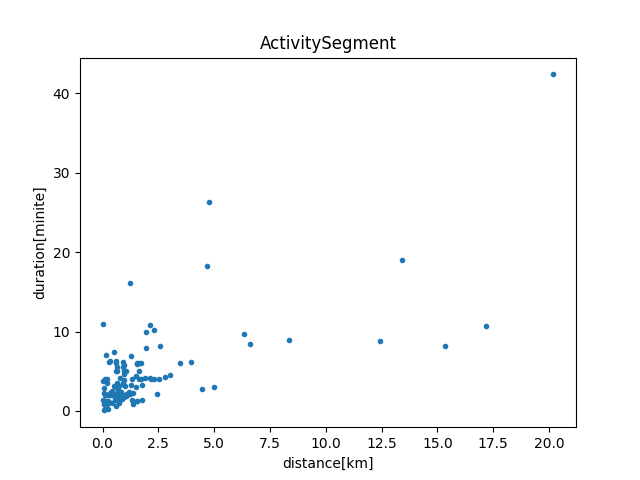
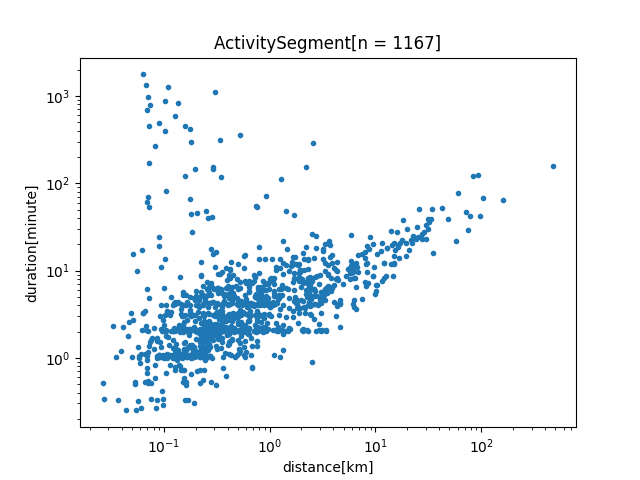
add gravitypoint

diff --git a/figGLH/dataTrend.py b/figGLH/dataTrend.py
@@ -1,6 +1,6 @@
 import matplotlib.pyplot as plt
 from geo2 import distance as g2dist
-from caliper import rotating_calipers as calipers
+from caliper import rotating_calipers, gravityPointDistance
 from mongodbSet import MongoDBSet
 
 
@@ -44,6 +44,10 @@ class GLHCollection():
 
         return result
     
+    def print(self):
+        for doc in self.collection:
+            print(doc)
+    
 class GLHCollectionAs(GLHCollection):
     def __init__(self, collection, segment = "activitySegment"):
         super().__init__(collection, segment)
@@ -63,7 +67,7 @@ class GLHCollectionPv(GLHCollection):
             if points.len() == 2 :
                 dist = g2dist(coordinates[0], coordinates[1])
             else :
-                dist = calipers(coordinates)
+                dist = gravityPointDistance(coordinates)
             
             duration = msToMinite(self.locateDuration(doc))
             region_duration_list[0].append(dist)
@@ -80,41 +84,55 @@ def msToMinite(timeMs):
     offset = 1000 * 60
     return timeMs / offset
 
-def elementList(segment, element):
+# MongoDBQueryを取得して差分リストを返す
+def elementList(segment, element, limit = 0):
     query = { segment + ".simplifiedRawPath" : {"$exists": True}}
-    collection = GLHCollection(MongoDBSet().queryMongodb(query), segment)
-    element_list = [doc[element] for doc in collection.differenceList()]
-    return element_list
+    corsor = MongoDBSet().queryMongodb(query, limit)
+    collection = GLHCollection(corsor, segment)
+    return  [doc[element] for doc in collection.differenceList()]
 
-def distDurationList(segments, elements):
+def distDurationList(segments, elements, limits):
     dist_duration_list = [[],[]]
-    for segment in segments:
-        dist_duration_list[0].append(elementList(segment, elements[0]))
-        dist_duration_list[1].append(elementList(segment, elements[1]))
+    for index, segment in enumerate(segments):
+        limit = limits[index]
+        dist_duration_list[0].append(elementList(segment, elements[0], limit))
+        dist_duration_list[1].append(elementList(segment, elements[1], limit))
     return dist_duration_list
 
 def pVSRPSpread():
-    query = { "placeVisit" + ".simplifiedRawPath" : {"$exists": True}}
+    query = { "placeVisit.simplifiedRawPath" : {"$exists": True}}
     collection = GLHCollectionPv(MongoDBSet().queryMongodb(query))
     return collection.regionDurationList()
 
 def createFigures(distlists,timelists):
-    createFigure(distlists[0], timelists[0], "ActivitySegment")
-    createFigure(distlists[1], timelists[1], "PlaceVisit")
-    createFigure(distlists[0] + distlists[1], timelists[0] + timelists[1], "FullSegment")
+    logScatterFigure(distlists[0], timelists[0], "ActivitySegment")
+    logScatterFigure(distlists[1], timelists[1], "PlaceVisit")
+    logScatterFigure(distlists[0] + distlists[1], timelists[0] + timelists[1], "FullSegment")
 
-def createFigure(distlist, timelist, name, xlabel = "distance[km]", ylabel = "duration[minite]"):
+def scatterFigure(distlist, timelist, name, xlabel = "distance[km]", ylabel = "duration[minute]"):
     savepath = "./images/"
+    n = "[n = " + str(len(distlist)) + "]"
     fig = plt.figure()
-    ax = fig.add_subplot(1, 1, 1, title = name, xlabel = xlabel, ylabel = ylabel)
+    ax = fig.add_subplot(1, 1, 1, title = name + n, xlabel = xlabel, ylabel = ylabel)
     ax.scatter(distlist, timelist, marker=".")
+    fig.savefig(savepath + name + ".png")
+    print("Output: " + name + ".png")
+
+def logScatterFigure(distlist, timelist, name, xlabel = "distance[km]", ylabel = "duration[minute]"):
+    savepath = "./images/"
+    n = "[n = " + str(len(distlist)) + "]"
+    fig = plt.figure()
+    ax = fig.add_subplot(1, 1, 1, title = name + n, xlabel = xlabel, ylabel = ylabel)
+    ax.scatter(distlist, timelist, marker=".")
+    ax.set_xscale('log')
+    ax.set_yscale('log')  # メイン: y軸をlogスケールで描く
     fig.savefig(savepath + name + ".png")
     print("Output: " + name + ".png")
 
 def fullFigure(distlists,timelists):
     fig = plt.figure()
 
-    fullax = fig.add_subplot(1, 2, 1, title = "Full", xlabel = "distance[km]", ylabel = "duration[minite]")
+    fullax = fig.add_subplot(1, 2, 1, title = "Full", xlabel = "distance[km]", ylabel = "duration[minute]")
     fullax.scatter(distlists[0] + distlists[1], timelists[0] + timelists[1], marker=".")
     asax = fig.add_subplot(2, 2, 2, title = "ActivitySegment")
     asax.scatter(distlists[0], timelists[0], marker=".")
@@ -127,11 +145,12 @@ def fullFigure(distlists,timelists):
 if __name__ == '__main__' :
 
     segments = ["activitySegment", "placeVisit"]
+    limits= [800, 100]
     elements = ["dist", "duration"]
 
     MongoDBSet().stat()
 
-    dist_duration_list = distDurationList(segments, elements)
+    dist_duration_list = distDurationList(segments, elements, limits)
 
     createFigures(*dist_duration_list)
     # fullFigure(distlists, timelists)
@@ -139,4 +158,4 @@ if __name__ == '__main__' :
     region_duration_list = pVSRPSpread()
     #print(boundlyList)
 
-    createFigure(*region_duration_list, "placeVisit Spread")
+    logScatterFigure(*region_duration_list, "placeVisit Spread")

diff --git a/figGLH/caliper.py b/figGLH/caliper.py
@@ -57,9 +57,20 @@ def rotating_calipers(ps):
             j = (j + 1) % n
     return res
 
+def gravityPointDistance(points):
+    res = 0
+    gravity_point = [0, 0]
+    gravity_point_sum = [0, 0]
+    for length, point in enumerate(points,1):
+        assert len(point) == len(gravity_point), "len(point) is not equal 2"
+        for index in range(len(gravity_point)):
+            gravity_point_sum[index] = (gravity_point_sum[index] + point[index])
+        gravity_point = [ x / (length) for x in gravity_point_sum]
+        res = max(res, dist(gravity_point, point))
+        #print(point, gravity_point, res)
+    return res
+
 if __name__ == "__main__" :
-    points = [[0,0], [1, 0], [2,1], [2, 2], [1,2]]
+    points = [[35.6571999, 139.5420565], [35.6582316, 139.5421605], [35.6582316, 139.5421605], [35.6582316, 139.5421605], [35.6582316, 139.5421605], [35.6582316, 139.5421605], [35.6582316, 139.5421605], [35.658933, 139.5424788], [35.658933, 139.5424788], [35.658933, 139.5424788], [35.658933, 139.5424788], [35.658933, 139.5424788], [35.6571999, 139.5420565]]
 
-    print(rotating_calipers(points))
-
-    points = [[2,1], [2,2], [1,2], [0,0], [1,0], [1,1]]
+    print(gravityPointDistance(points))

diff --git a/serverGLH/CreateList.py b/serverGLH/CreateList.py
@@ -19,7 +19,7 @@ class BaseLngLatList :
         for item in document[self.segment][self.v1][self.v2] :
             documentlist.append([item["lngE7"], item["latE7"], item["timestampMs"]])
         return documentlist
-    def makingDocumentListNotimestamp(self, document):
+    def makingDocumentListNoTimestamp(self, document):
         documentlist = []
         for item in document[self.segment][self.v1][self.v2] :
             documentlist.append([item["lngE7"], item["latE7"], "NULL"])
@@ -47,7 +47,7 @@ class AsWaypointPath(BaseLngLatList):
         self.v1 = "waypointPath"
         self.v2 = "waypoints"
     def makingDocumentList(self, document):
-        return super().makingDocumentListNotimestamp(document)
+        return super().makingDocumentListNoTimestamp(document)
 
 class PvSimplifiedRawPath(BaseLngLatList):
     def __init__(self, corsor):

diff --git a/figGLH/mongodbSet.py b/figGLH/mongodbSet.py
@@ -6,9 +6,9 @@ class MongoDBSet :
         mongodb_path = "mongodb://127.0.0.1:27017"
         with MongoClient(mongodb_path) as client:
             self.glh_db = client.glh_db
-            self.glh_clct = self.glh_db.glh_clct_2
+            self.glh_clct = self.glh_db.glh_clct_full
 
-    def queryMongodb(self, query, limit = 0):
+    def queryMongodb(self, query, limit = 1000):
         corsor = self.glh_clct.find(query).limit(limit)
         return corsor
     
